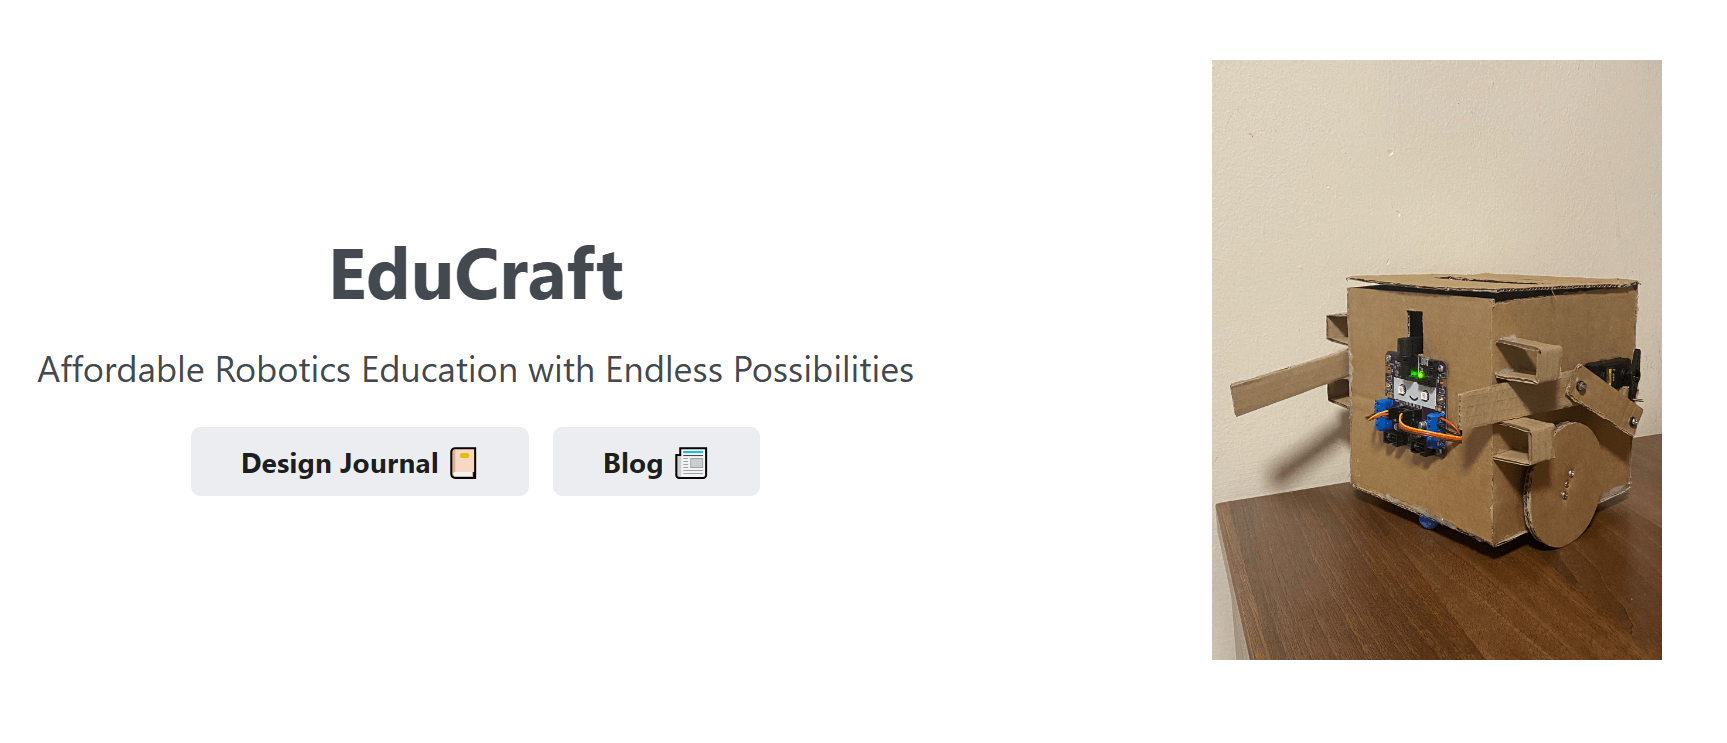
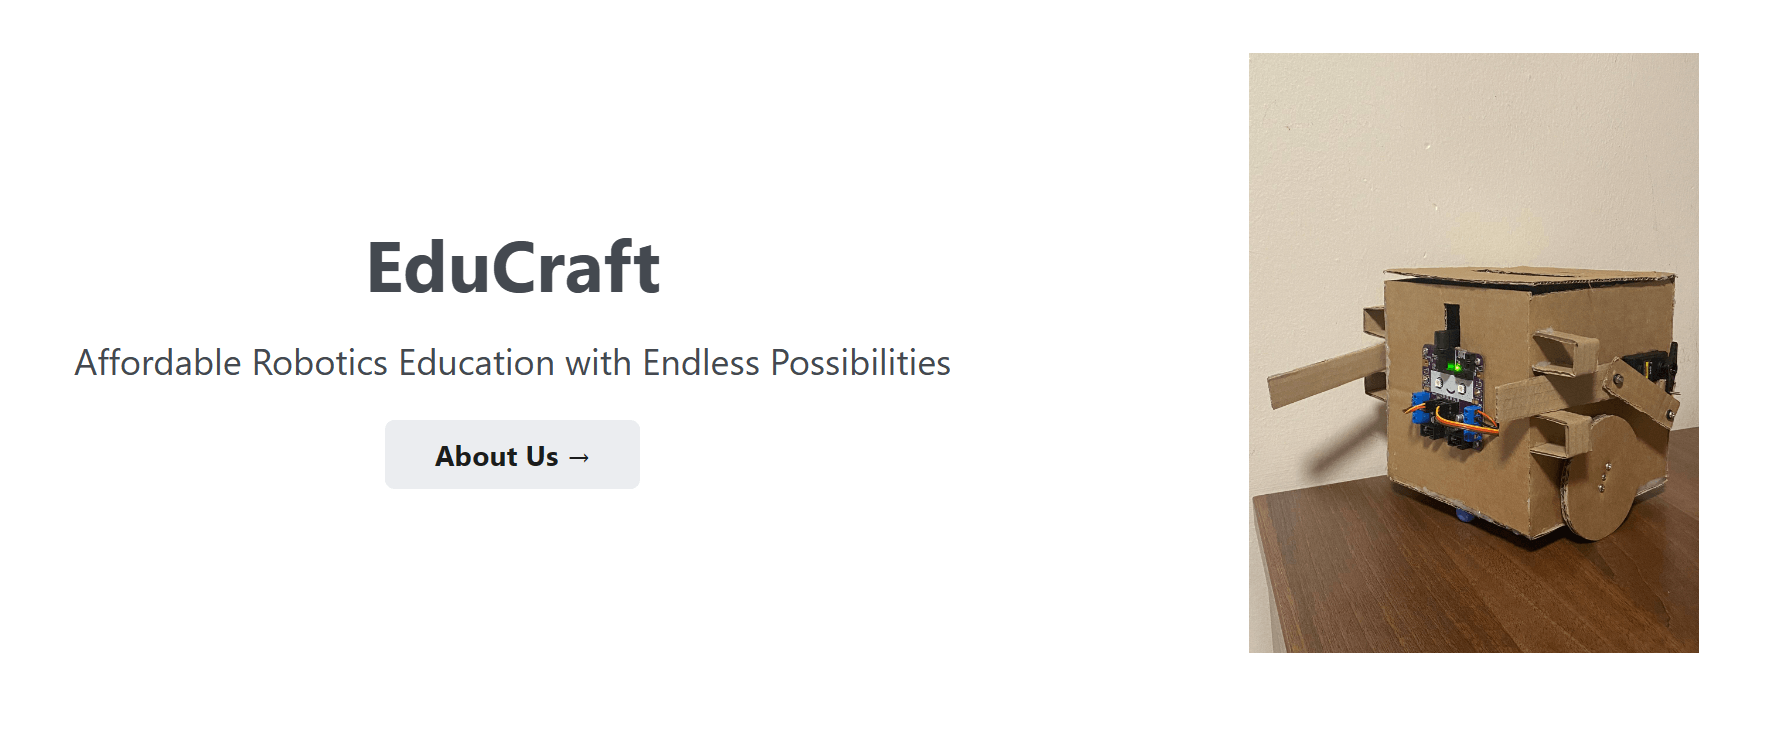
Update landing page

diff --git a/src/components/HomepageFeatures/index.js b/src/components/HomepageFeatures/index.js
@@ -9,8 +9,8 @@ const FeatureList = [
     Svg: require("@site/static/img/undraw_speed.svg").default,
     description: (
       <>
-        We upgrade Curio robot's motor and battery for improved speed and
-        performance using the Smartibot development kit.
+        We took inspiration from the Smartibot to modify the design of the Curio
+        robot, with the goal of improving its speed and performance.
       </>
     ),
   },
@@ -29,7 +29,7 @@ const FeatureList = [
     Svg: require("@site/static/img/undraw_features.svg").default,
     description: (
       <>
-        We expand Curio robot's capabilities by adding sensors, cameras, and
+        We expand Curio robot's capabilities by adding customization and
         electronic components using the Smartibot development kit.
       </>
     ),
@@ -111,10 +111,33 @@ export default function HomepageFeatures() {
           <div className={styles.prototypeButtons}>
             <Link
               className="button button--secondary button--lg"
-              to="/docs/prototypes/third-prototype"
+              to="/docs/final-design/battle-bot-tutorial"
             >
-              Find out more 🔍
+              Build This! 🤖
             </Link>
+          </div>
+        </div>
+      </section>
+      <section className={styles.features}>
+        <div className="container text--center">
+          <h2>Battlebot in Action</h2>
+          <div className={styles.prototypeImages}>
+            <iframe
+              height="315"
+              src="https://www.youtube.com/embed/vdqtsNfm6DQ"
+              title="YouTube video player"
+              frameborder="0"
+              allow="accelerometer; autoplay; clipboard-write; encrypted-media; gyroscope; picture-in-picture; web-share"
+              allowfullscreen
+            ></iframe>
+            <iframe
+              height="315"
+              src="https://www.youtube.com/embed/3ekVshR9_Sg"
+              title="YouTube video player"
+              frameborder="0"
+              allow="accelerometer; autoplay; clipboard-write; encrypted-media; gyroscope; picture-in-picture; web-share"
+              allowfullscreen
+            ></iframe>
           </div>
         </div>
       </section>
@@ -130,11 +153,21 @@ export default function HomepageFeatures() {
               <Feature key={idx} {...props} />
             ))}
           </div>
+          <div className={styles.prototypeButtons}>
+            <a
+              className="button button--secondary button--lg"
+              href="https://trycurio.com/"
+              target="_blank"
+              rel="noreferrer"
+            >
+              Check out Curio ↗
+            </a>
+          </div>
         </div>
       </section>
       <section className={styles.features}>
         <div className="container text--center">
-          <h2>Methodogies</h2>
+          <h2>Our Methodogies</h2>
           <div className="row">
             {designThinkingList.map((props, idx) => (
               <Design key={idx} {...props} />

diff --git a/src/pages/index.js b/src/pages/index.js
@@ -15,17 +15,11 @@ function HomepageHeader() {
         <h1 className="hero__title">{siteConfig.title}</h1>
         <p className="hero__subtitle">{siteConfig.tagline}</p>
         <div className={styles.buttons}>
-          <Link
+        <Link
             className="button button--secondary button--lg"
-            to="/docs/introduction"
+            to="/about-us"
           >
-            Design Journal 📔
-          </Link>
-          <Link
-            className="button button--secondary button--lg"
-            to="/blog"
-          >
-            Blog 📰
+            About Us →
           </Link>
         </div>
       </div>

diff --git a/src/components/HomepageFeatures/styles.module.css b/src/components/HomepageFeatures/styles.module.css
@@ -18,7 +18,11 @@
 }
 
 .prototypeImages img {
-  width: 20%;
+  width: 22%;
+}
+
+.prototypeImages iframe {
+  width: 46%;
 }
 
 .prototypeButtons {
@@ -36,6 +40,10 @@
 
   .prototypeImages img {
     margin-top: 1.5em;
+    width: 90%;
+  }
+
+  .prototypeImages iframe {
     width: 90%;
   }
 

diff --git a/docs/final-design/battle-bot-tutorial.md b/docs/final-design/battle-bot-tutorial.md
@@ -1,0 +1,70 @@
+---
+sidebar_position: 1
+---
+
+# Battlebot Tutorial
+
+In this tutorial, you will find various helpful resources such as blueprint-like templates, images, videos, and a step-by-step guide for building our Battlebot.
+
+You may refer to our [3rd prototype](/docs/prototypes/third-prototype) to learn about our design process.
+
+Smartibot microcontroller is used for simulation purposes, actual product would be using the microcontroller the Curio is currently using.
+
+## End Product
+
+This is how the end product will look like.
+
+|           | **Photo**                                   |
+| --------- | ------------------------------------------- |
+| **Side**  | ![Photo](/img/third-prototype/diagonal.jpg) |
+| **Front** | ![Photo](/img/third-prototype/front.jpg)    |
+| **Back**  | ![Photo](/img/third-prototype/back.jpg)     |
+| **Left**  | ![Photo](/img/third-prototype/left.jpg)     |
+| **Right** | ![Photo](/img/third-prototype/right.jpg)    |
+
+## Tutorial
+
+### Template
+
+This is the core unit template
+
+![Attachment](/img/third-prototype/template.jpg)
+
+### Video
+
+This is a step-by-step video showing how to build the core unit.
+
+[![IMAGE ALT TEXT HERE](https://img.youtube.com/vi/joiJ9Ab7RgI/0.jpg)](https://www.youtube.com/watch?v=joiJ9Ab7RgI)
+
+### Step-by-Step Guide
+
+**Step 1**: Align the chip with the 4 screw holes on the front piece. Screw it in with 4 short
+screws and bolts. Ensure that the charging port of the chip is right under the charging port
+cutout slot of the front piece.
+
+**Step 2**: Fold the front, back, right, and left pieces 90 degrees upwards vertically. Glue the 4
+corners, forming a cube with the top piece not glued.
+
+**Step 3**: Fold the top piece along the dotted lines upwards and outwards. Glue the shorter end
+of the fold to the rest of the cupboard structure, making the longer end of the fold act as a flap
+to open and close.
+
+**Step 4**: Place a motor into the inside of the cube and position it on the right piece such that
+the white protruding end of the motor is sticking out the 1cm X 1cm hole on the other side
+and the two holes on the motor is aligned with the two screw holes on the right piece.
+
+**Step 5**: Repeat step 4 on the left piece. Bear in mind that the left piece is a mirror of the
+right piece.
+
+**Step 6**: Attach the wheels onto the white protruding end of the motor that is sticking out of
+the cube, on both the left and right pieces respectively.
+
+**Step 7**: Bring the red and black wires of both motors through the 1cm X 0.5cm holes of the
+front piece respectively. Connect the red wires of both the motors to the topmost connection
+port on their respective sides. Connect the black wires of both motors to the second topmost
+connection port on their respective side.
+
+**Step 8**: Place the battery pack inside the cube. Pass the wire through the 2cm X 2cm hole of
+the front piece and connect to the power port of the chip.
+
+**Step 9**: Glue 1 marble each on the 2 cross marked spots under the bottom piece.

diff --git a/docs/final-design/poster.md b/docs/final-design/poster.md
@@ -1,5 +1,5 @@
 ---
-sidebar_position: 6
+sidebar_position: 2
 ---
 
 # Poster
